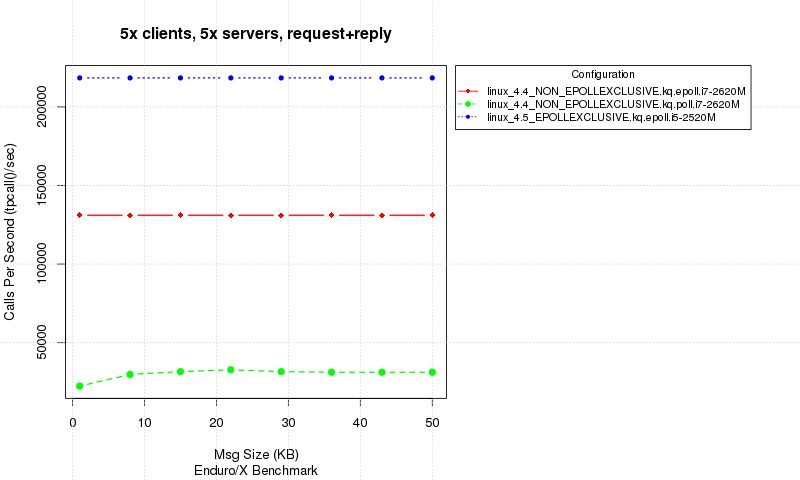
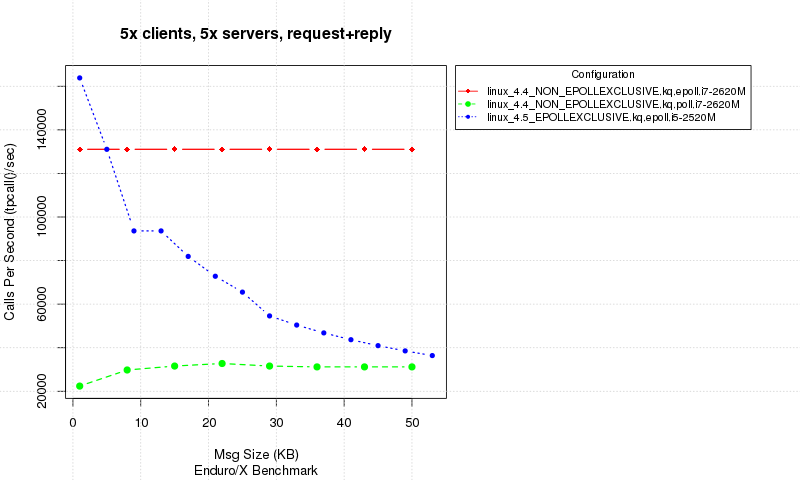
Fixes on benchmark

diff --git a/atmitest/test001_basiccall/atmiclt1.c b/atmitest/test001_basiccall/atmiclt1.c
@@ -240,7 +240,7 @@ int main(int argc, char** argv) {
             /*
             * Test the case when some data should be returned
             */
-            if (FAIL==tpcall("ECHO", NULL, 0L, (char **)&p_ub, &rsplen, TPNOTIME))
+            if (FAIL==tpcall("ECHO", (char *)p_ub, 0L, (char **)&p_ub, &rsplen, TPNOTIME))
             {
                 NDRX_LOG(log_error, "TESTERROR: ECHO failed: %s", tpstrerror(tperrno));
                 ret=FAIL;
@@ -283,7 +283,7 @@ int main(int argc, char** argv) {
             /*
             * Test the case when some data should be returned
             */
-            if (FAIL==tpcall("ECHO", NULL, 0L, (char **)&p_ub, &rsplen, TPNOTIME))
+            if (FAIL==tpcall("ECHO", (char *)p_ub, 0L, (char **)&p_ub, &rsplen, TPNOTIME))
             {
                 NDRX_LOG(log_error, "TESTERROR: ECHO failed: %s", tpstrerror(tperrno));
                 ret=FAIL;
@@ -308,7 +308,7 @@ int main(int argc, char** argv) {
     
     if (strstr(bench_mode, ":B:"))
     {
-        for (j=1; j<56; j+=7)
+        for (j=1; j<56; j+=4)
         {
             int callsz = j*1024;
             p_ub = (UBFH *)tprealloc ((char *)p_ub, callsz+500);
@@ -328,7 +328,7 @@ int main(int argc, char** argv) {
                 /*
                 * Test the case when some data should be returned
                 */
-                if (FAIL==tpcall("ECHO", NULL, 0L, (char **)&p_ub, &rsplen, TPNOTIME))
+                if (FAIL==tpcall("ECHO", (char *)p_ub, 0L, (char **)&p_ub, &rsplen, TPNOTIME))
                 {
                     NDRX_LOG(log_error, "TESTERROR: ECHO failed: %s", tpstrerror(tperrno));
                     ret=FAIL;

diff --git a/atmitest/test015_threads/atmiclt15.c b/atmitest/test015_threads/atmiclt15.c
@@ -48,13 +48,14 @@
 #include <test.fd.h>
 #include <ndrstandard.h>
 #include <ntimer.h>
+#include <nstdutil.h>
 /*---------------------------Externs------------------------------------*/
 /*---------------------------Macros-------------------------------------*/
 /* #define TEST_STEP       8 */
 
 #define TEST_MIN    1
 #define TEST_MAX    56
-#define TEST_STEP   7
+#define TEST_STEP   4
     
 /*---------------------------Enums--------------------------------------*/
 /*---------------------------Typedefs-----------------------------------*/
@@ -112,7 +113,7 @@ void do_thread_work ( void *ptr )
                 /*
                 * Test the case when some data should be returned
                 */
-                if (FAIL==tpcall("ECHO", NULL, 0L, (char **)&p_ub, &rsplen, TPNOTIME))
+                if (FAIL==tpcall("ECHO", (char *)p_ub, 0L, (char **)&p_ub, &rsplen, TPNOTIME))
                 {
                     NDRX_LOG(log_error, "TESTERROR: ECHO failed: %s", tpstrerror(tperrno));
                     ret=FAIL;
